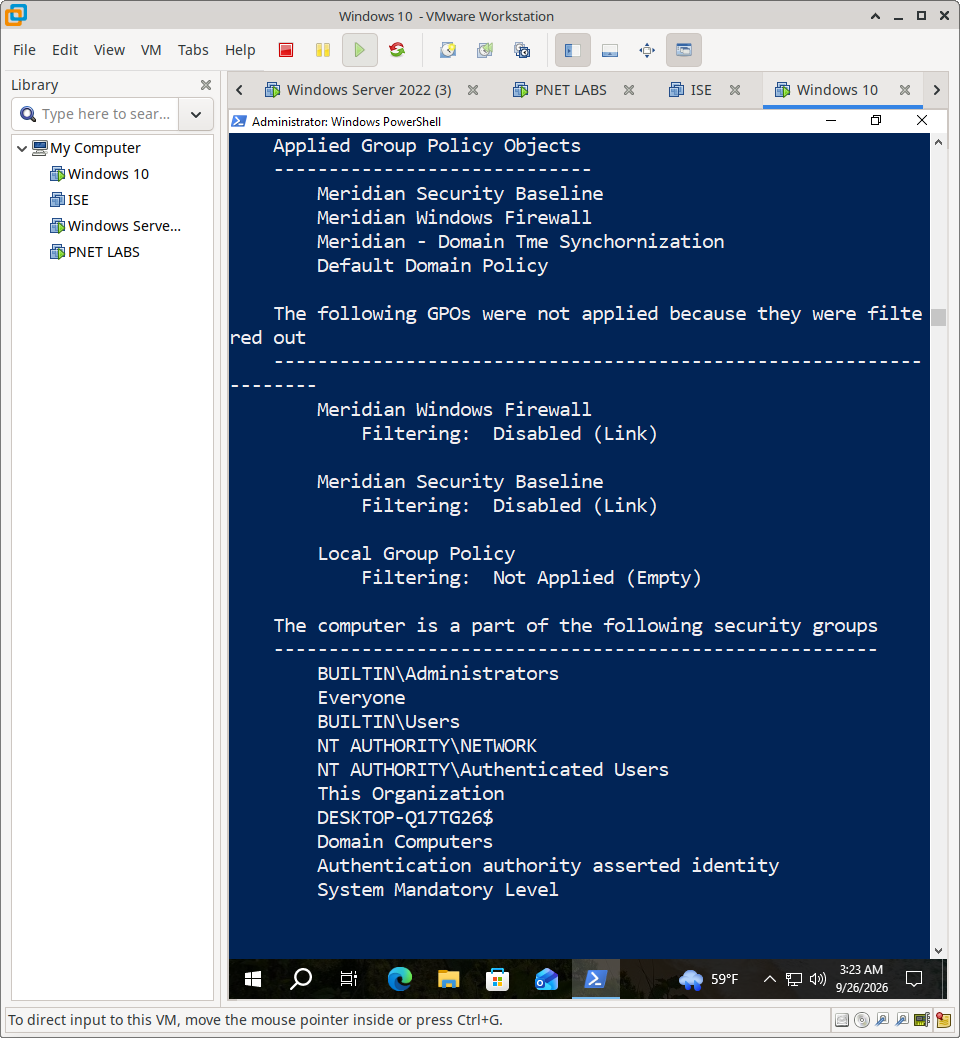
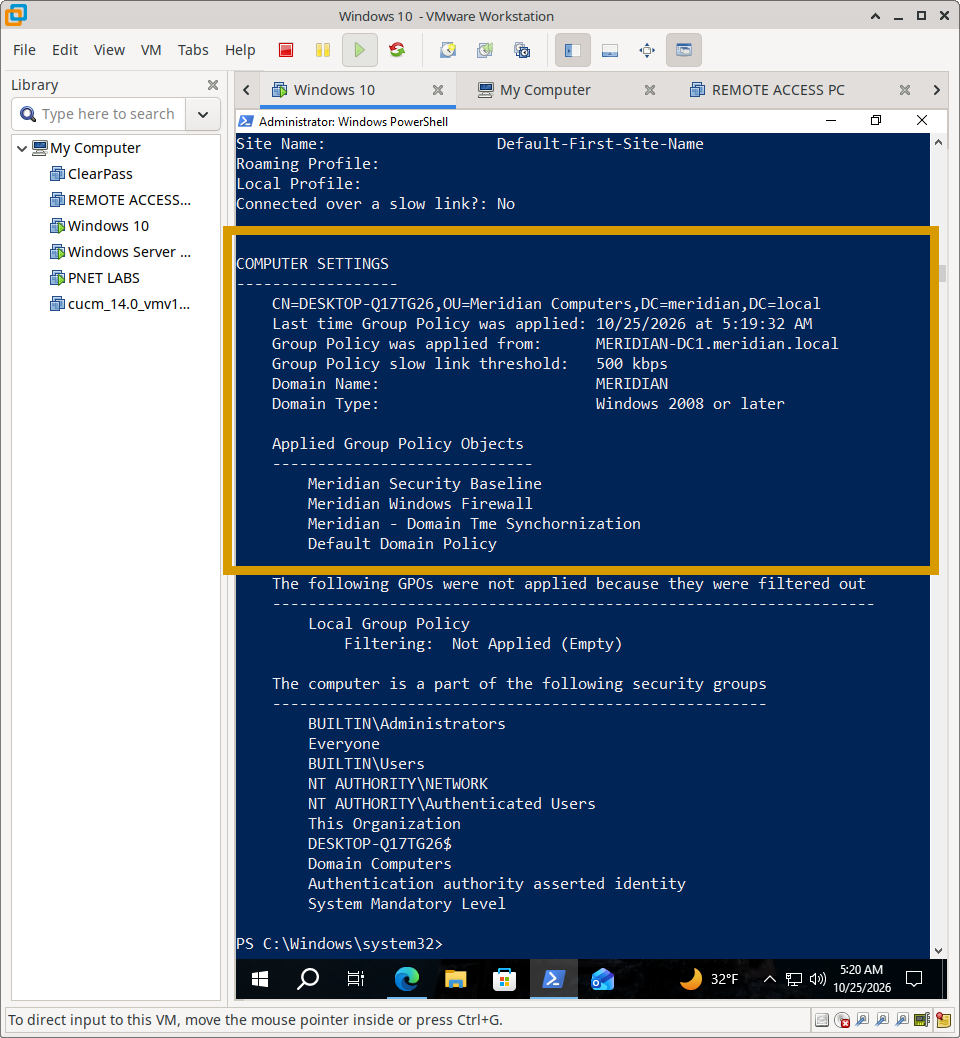
“README”

diff --git a/Windows/05-NTP/configuration.md b/Windows/05-NTP/configuration.md
@@ -17,6 +17,8 @@ A GPO named **"Meridian - Domain Time Synchronization"** was created to centrall
 
 ![NTP](screenshots/ntp-gpo-added.png)
 
+![NTP](screenshots/gpo-report.png)
+
 ### 1.2 NTP Client Policy Settings
 Within the GPO, the "Configure Windows NTP Client" policy was enabled. This configures the Windows Time service (`w32time`) to synchronize with the domain hierarchy (NT5DS mode) or a specific external source.
 
